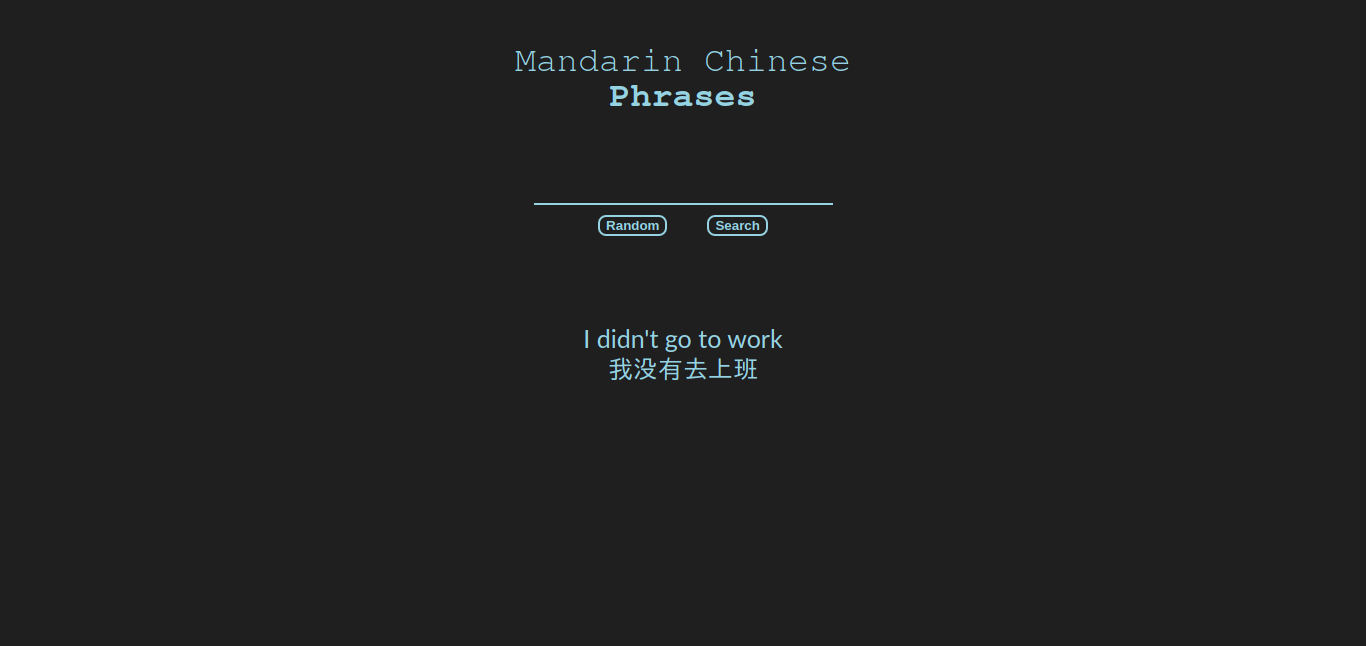
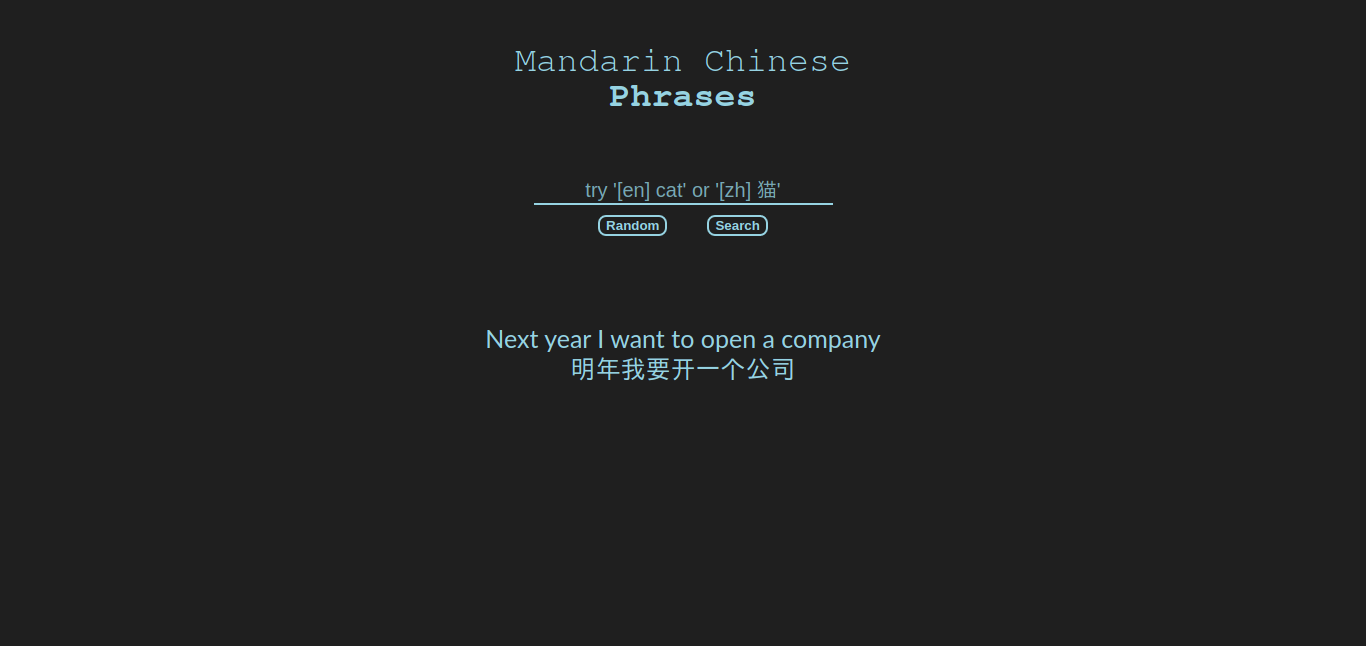
chinese and english search

Changed region(s): [[0.3382, 0.4954, 0.6457, 0.5882], [0.4305, 0.2786, 0.5842, 0.3096]]

diff --git a/chinese-sentence-miner/search.js b/chinese-sentence-miner/search.js
@@ -9,15 +9,26 @@ form.addEventListener('submit', function(e){
     render(newInput)
 }  )
 
-function search(str) {
+function searchEn(str) {
     for (e of sentences) {
         if (e.en.toLowerCase().includes(str.toLowerCase())) return e.id
     }
     return -1
 }
 
+function searchZh(str) {
+    for (e of sentences) {
+        if (e.zh.toLowerCase().includes(str.toLowerCase())) return e.id
+    }
+    return -1
+}
+
 function render(newInput) {
-    number = search(newInput)
+    if (newInput.trim()[4] != ' ') number = -1
+    else if (newInput.trim().slice(4).trim() == '' || newInput.trim().slice(4).trim() == null) number = -1
+    else if (newInput.trim().slice(0,4) == '[en]')  number = searchEn(newInput.trim().slice(5).trim())
+    else if (newInput.trim().slice(0,4) == '[zh]') number = searchZh(newInput.trim().slice(5).trim())
+    else number = -1
     if (number >= 0) {
         sentenceEn.innerHTML = sentences[number].en
         sentenceZh.innerHTML = sentences[number].zh

diff --git a/chinese-sentence-miner/index.html b/chinese-sentence-miner/index.html
@@ -16,7 +16,7 @@
     </div>  
     <form action="" class="container" id="form" data-new-list-form>
        
-        <input type="text" autocomplete="off" data-new-list-input id="formInput"/>
+        <input type="text" autocomplete="off" placeholder="try '[en] cat' or '[zh] 猫'" data-new-list-input id="formInput"/>
         <div>
         <button id="random-sentence" type="button">Random</a>
         <button id="add">Search</button>

diff --git a/chinese-sentence-miner/style.css b/chinese-sentence-miner/style.css
@@ -2,6 +2,11 @@
     --main-color: #96d3e2;
 }
 
+::placeholder {
+    color: #78a8b4;
+    text-align: center;
+}
+
 body {
     background: #1f1f1f;
     color: var(--main-color);
